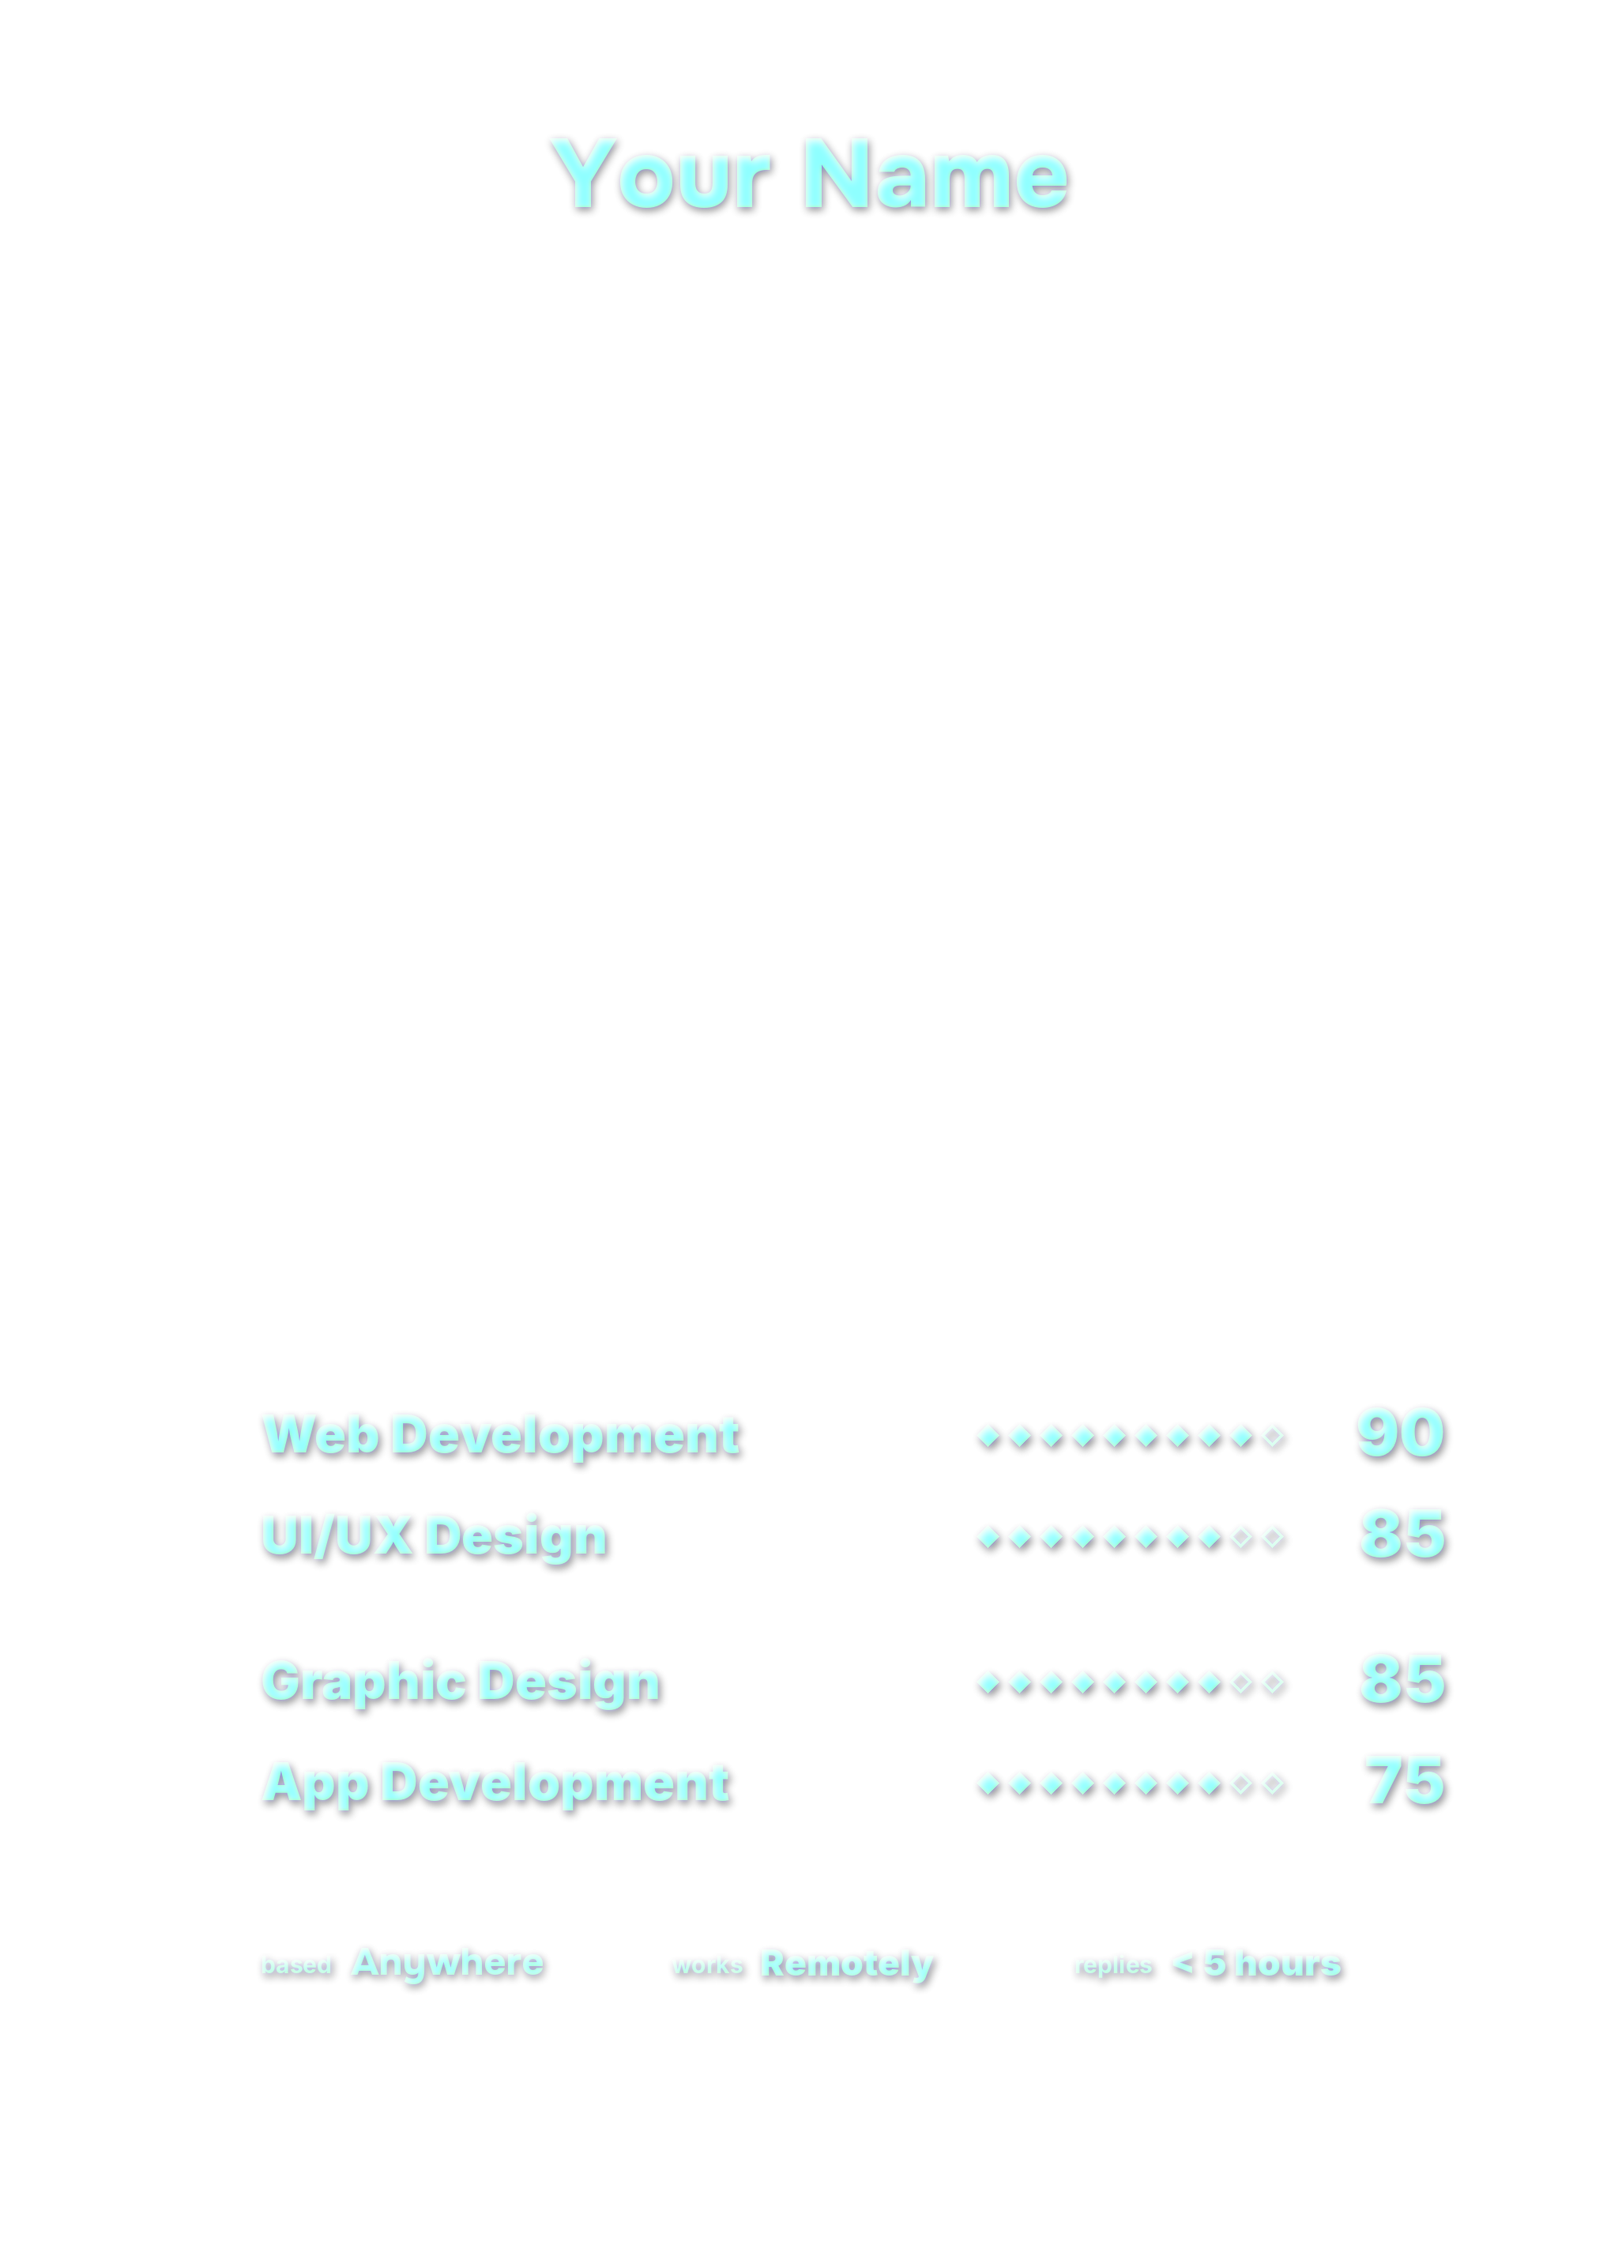
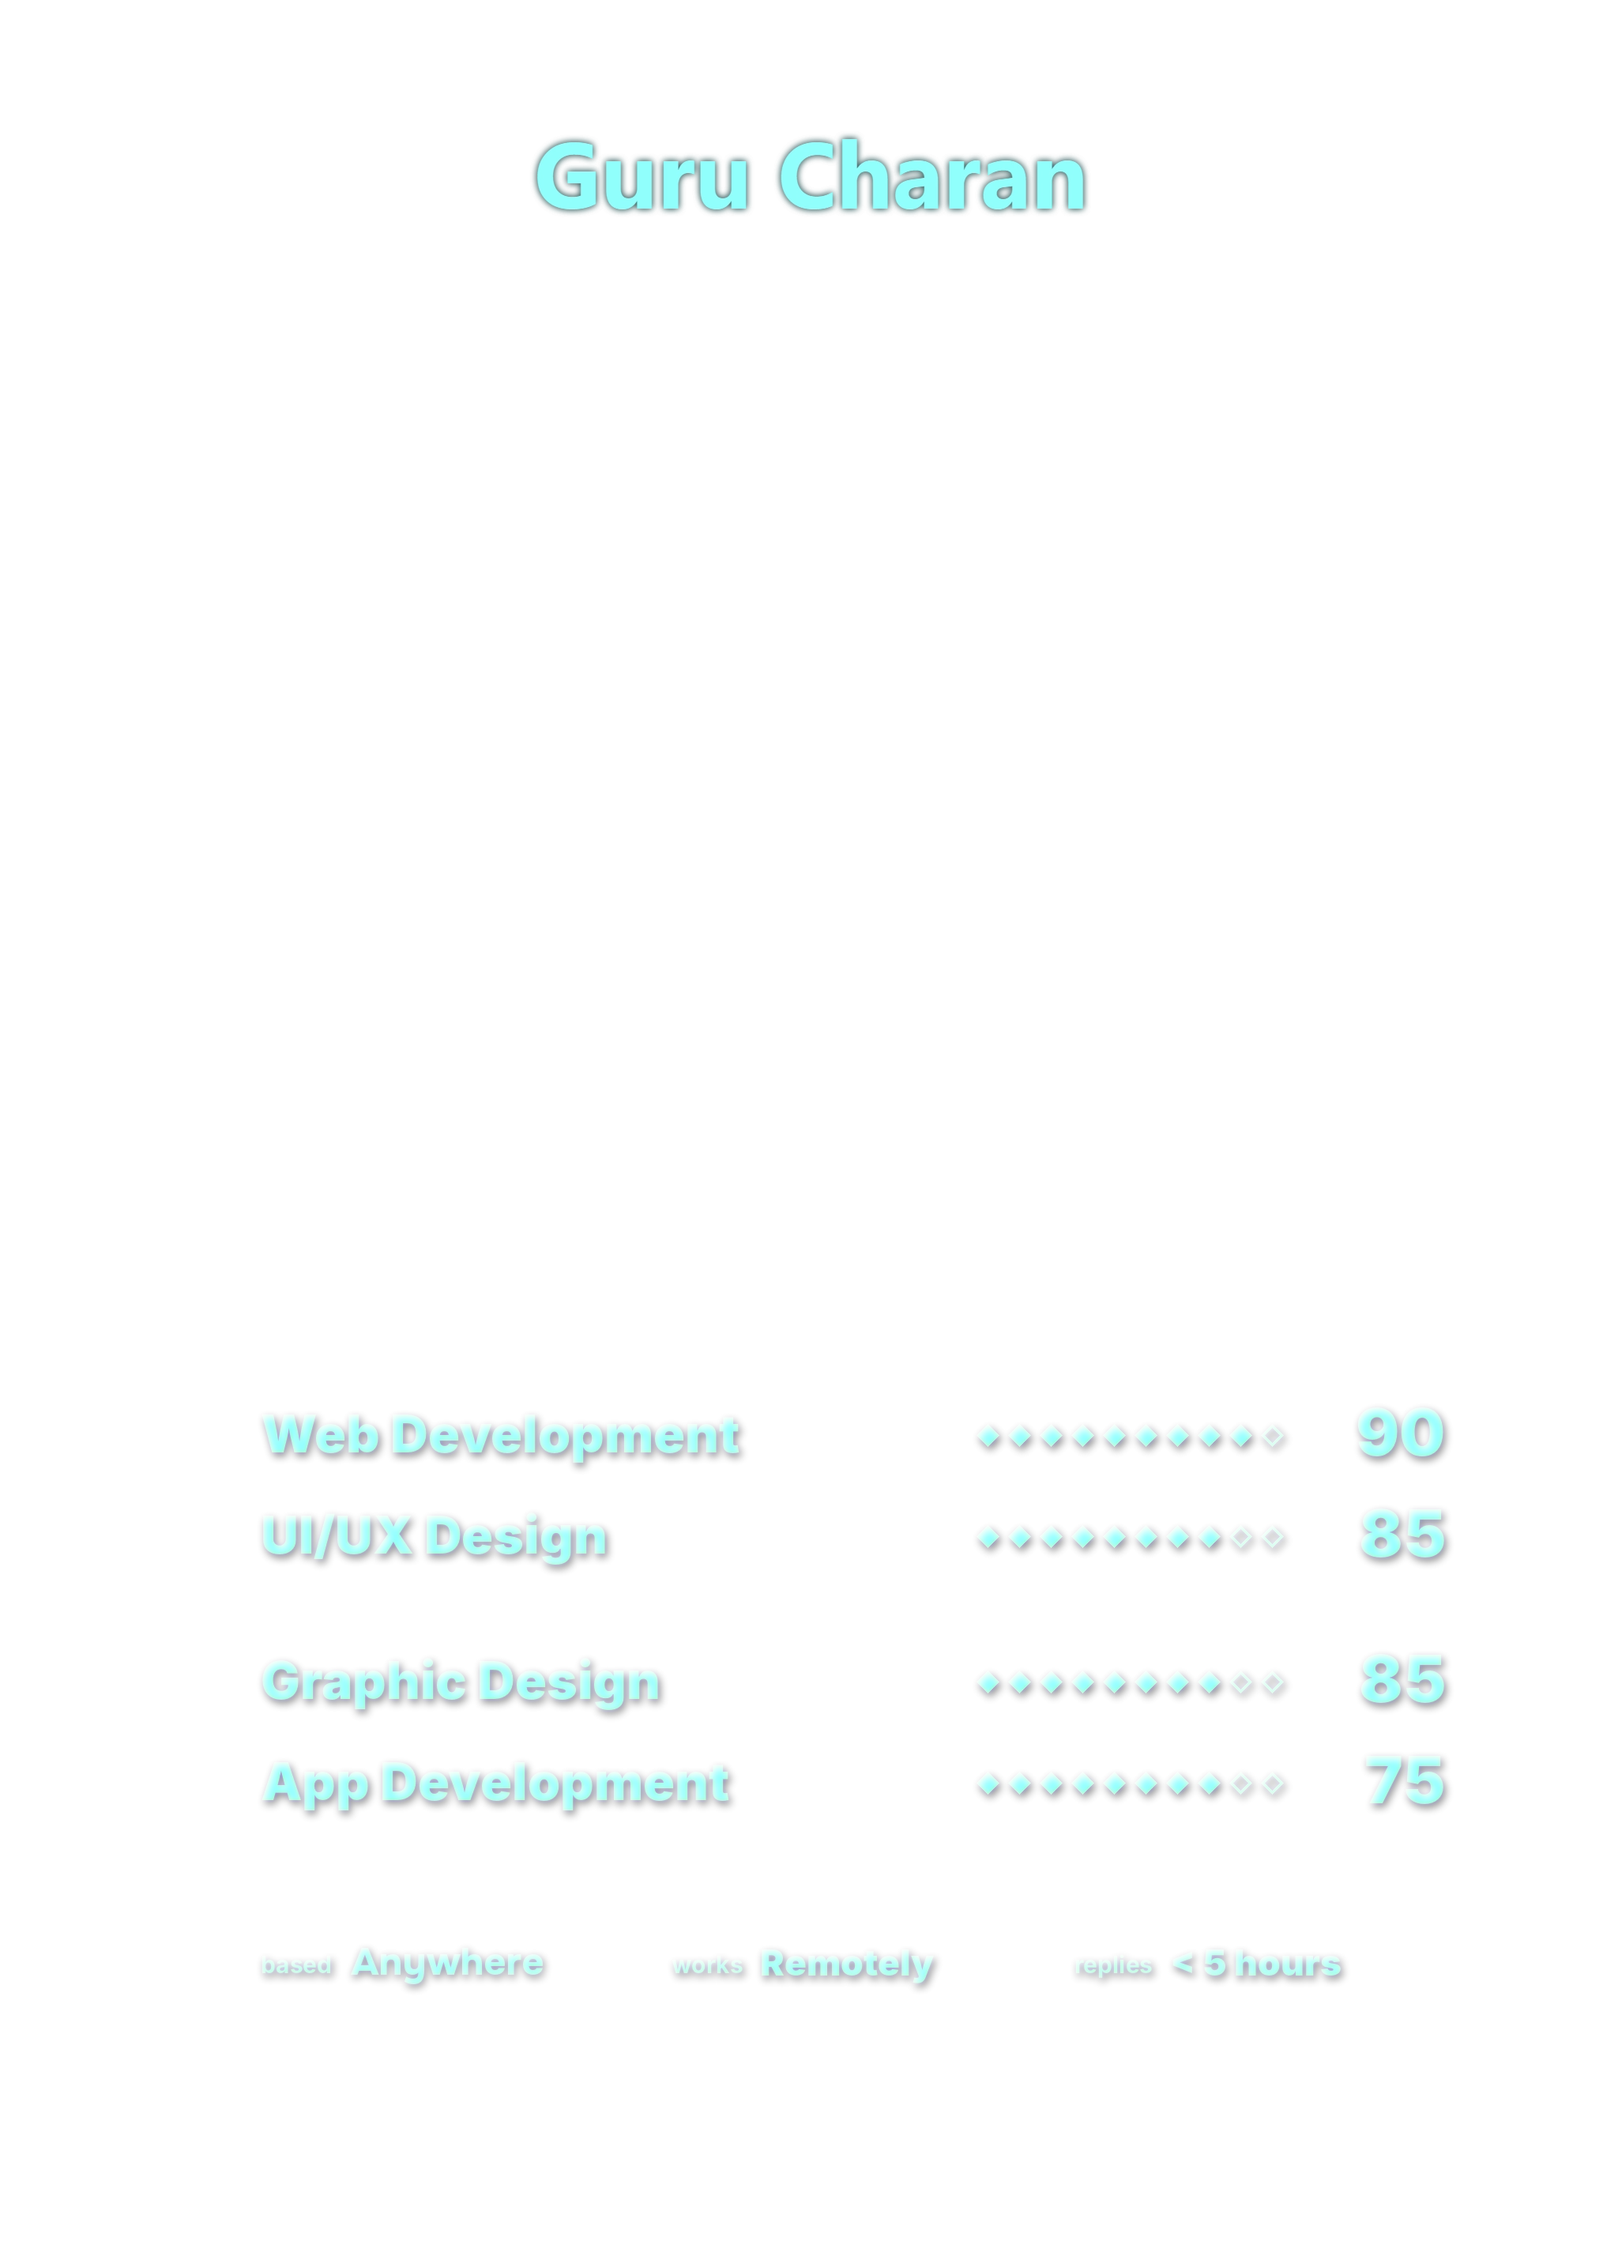
Put my name on the ability card
The ability card page's title, label, loader and description now say
Guru Charan, and the name drawn into the card plate and its foil layer is
repainted in place of "Your Name" at the same size, position and colour.

Changed region(s): [[0.3125, 0.0622, 0.6875, 0.0934]]

diff --git a/public/ability-card/index.html b/public/ability-card/index.html
@@ -16,7 +16,7 @@
 <meta charset="utf-8">
 <meta name="viewport" content="width=device-width,initial-scale=1,viewport-fit=cover">
 <meta name="theme-color" content="#050404">
-<title>Your Name — Ability Card</title>
+<title>Guru Charan — Ability Card</title>
 <style>
 
 @font-face{font-family:"EB Garamond";src:url(../fonts/eb-garamond-latin.woff2) format("woff2");font-weight:400 800;font-display:swap}
@@ -61,10 +61,10 @@ body.ready .hint.gone{opacity:0;transition-delay:0s;transition-duration:.9s}
 </head>
 <body>
 <main style="display:contents">
-<div id="scene" role="img" aria-label="Your Name's ability card: web development 90, UI/UX design 85, graphic design 85, app development 75. Move the pointer to tilt it, drag to rotate, double-click or press F to flip it over."></div>
-<p class="mark" aria-hidden="true">Your Name<small>Ability card</small></p>
+<div id="scene" role="img" aria-label="Guru Charan's ability card: web development 90, UI/UX design 85, graphic design 85, app development 75. Move the pointer to tilt it, drag to rotate, double-click or press F to flip it over."></div>
+<p class="mark" aria-hidden="true">Guru Charan<small>Ability card</small></p>
 <p class="hint" id="hint" aria-hidden="true">Hover to tilt &middot; Drag to rotate &middot; Double-click to flip</p>
-<div id="loading" role="progressbar" aria-label="Loading the ability card" aria-valuemin="0" aria-valuemax="100" aria-valuenow="0"><div class="cl" aria-hidden="true"><p class="cl__name">Your Name</p><div class="cl__line"><i></i></div><p class="cl__row"><span>Loading the card</span><b id="ld-pct">0%</b></p><span id="ld-fill" hidden></span><span id="ld-stage" hidden>Charging up</span></div></div>
+<div id="loading" role="progressbar" aria-label="Loading the ability card" aria-valuemin="0" aria-valuemax="100" aria-valuenow="0"><div class="cl" aria-hidden="true"><p class="cl__name">Guru Charan</p><div class="cl__line"><i></i></div><p class="cl__row"><span>Loading the card</span><b id="ld-pct">0%</b></p><span id="ld-fill" hidden></span><span id="ld-stage" hidden>Charging up</span></div></div>
 <script>window.__CARD_ASSETS = {};</script>
 <script type="module">
 var __defProp = Object.defineProperty;
